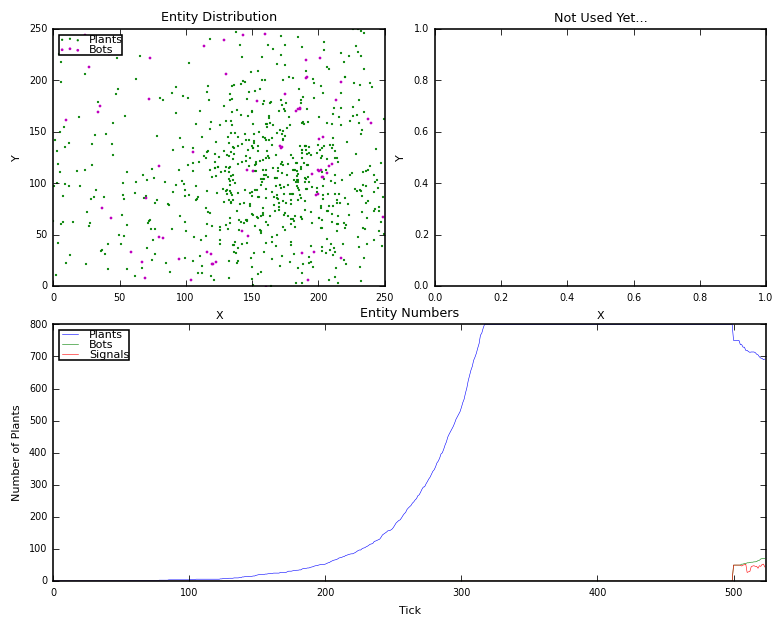
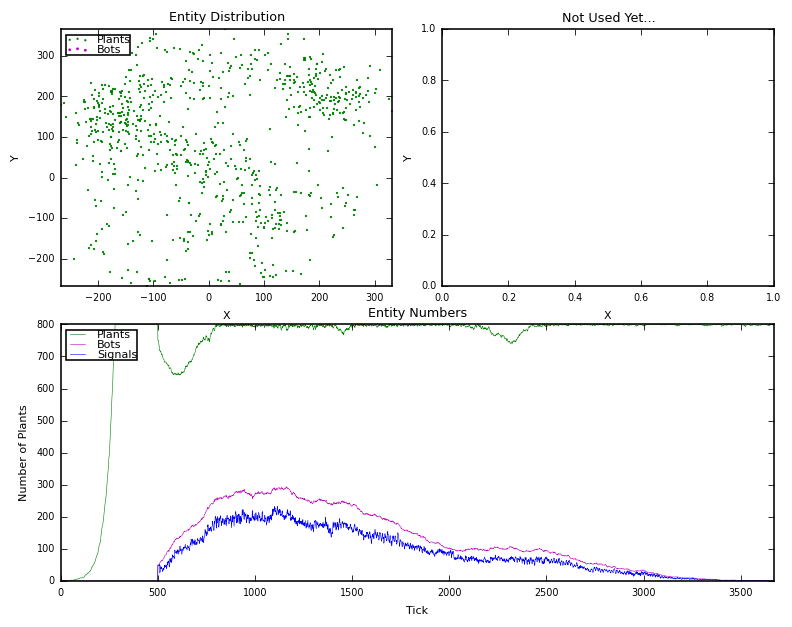
Drawn Borders for Bounded World
Worlds that have boundaries now have the borders drawn in dark gray.

diff --git a/simulation.py b/simulation.py
@@ -107,8 +107,12 @@ class ViewPort(BasePanel):
     def render(self):
         self.surface.fill(self.bg_color)
         self.surface.lock()
-        self.surface.unlock()
         pixels = pygame.surfarray.pixels3d(self.surface)
+        # Draw a vague outline around the world if bounded
+        if self.world.boundary_sizes:
+            left, top = self.world_point_to_surface((0, 0))
+            width, height = self.world.boundary_sizes[0] * self.zoom, self.world.boundary_sizes[1] * self.zoom
+            pygame.draw.rect(self.surface, (15, 15, 15), (left, top, width+1, height+1), int(self.zoom**0.5))
         # TODO: Use HSV color space instead of RBG to simplify all of this
         if self.draw_signals:
             for signal in self.world.signals:
@@ -141,6 +145,7 @@ class ViewPort(BasePanel):
         if self.world.selected_bot:
             self._draw_plant_or_bot(pixels, self.world.selected_bot, (255, 255, 255), (255, 255, 255), False)
         del pixels
+        self.surface.unlock()
 
     def _draw_plant_or_bot(self, pixel_array, entity, entity_color, energy_color, selected_color):
         t = 0 if selected_color else 1
@@ -662,7 +667,7 @@ class Simulation:
 
 if __name__ == '__main__':
     print("Starting Simulation...")
-    earth = World(boundary_sizes=(250, 250), energy_pool=300000, plant_limit=800)
+    earth = World(boundary_sizes=(300, 300), energy_pool=300000, plant_limit=800)
     basic_brain = create_basic_brain()
     minimal_brain = create_very_simple_brain()
     print("Controls:")
